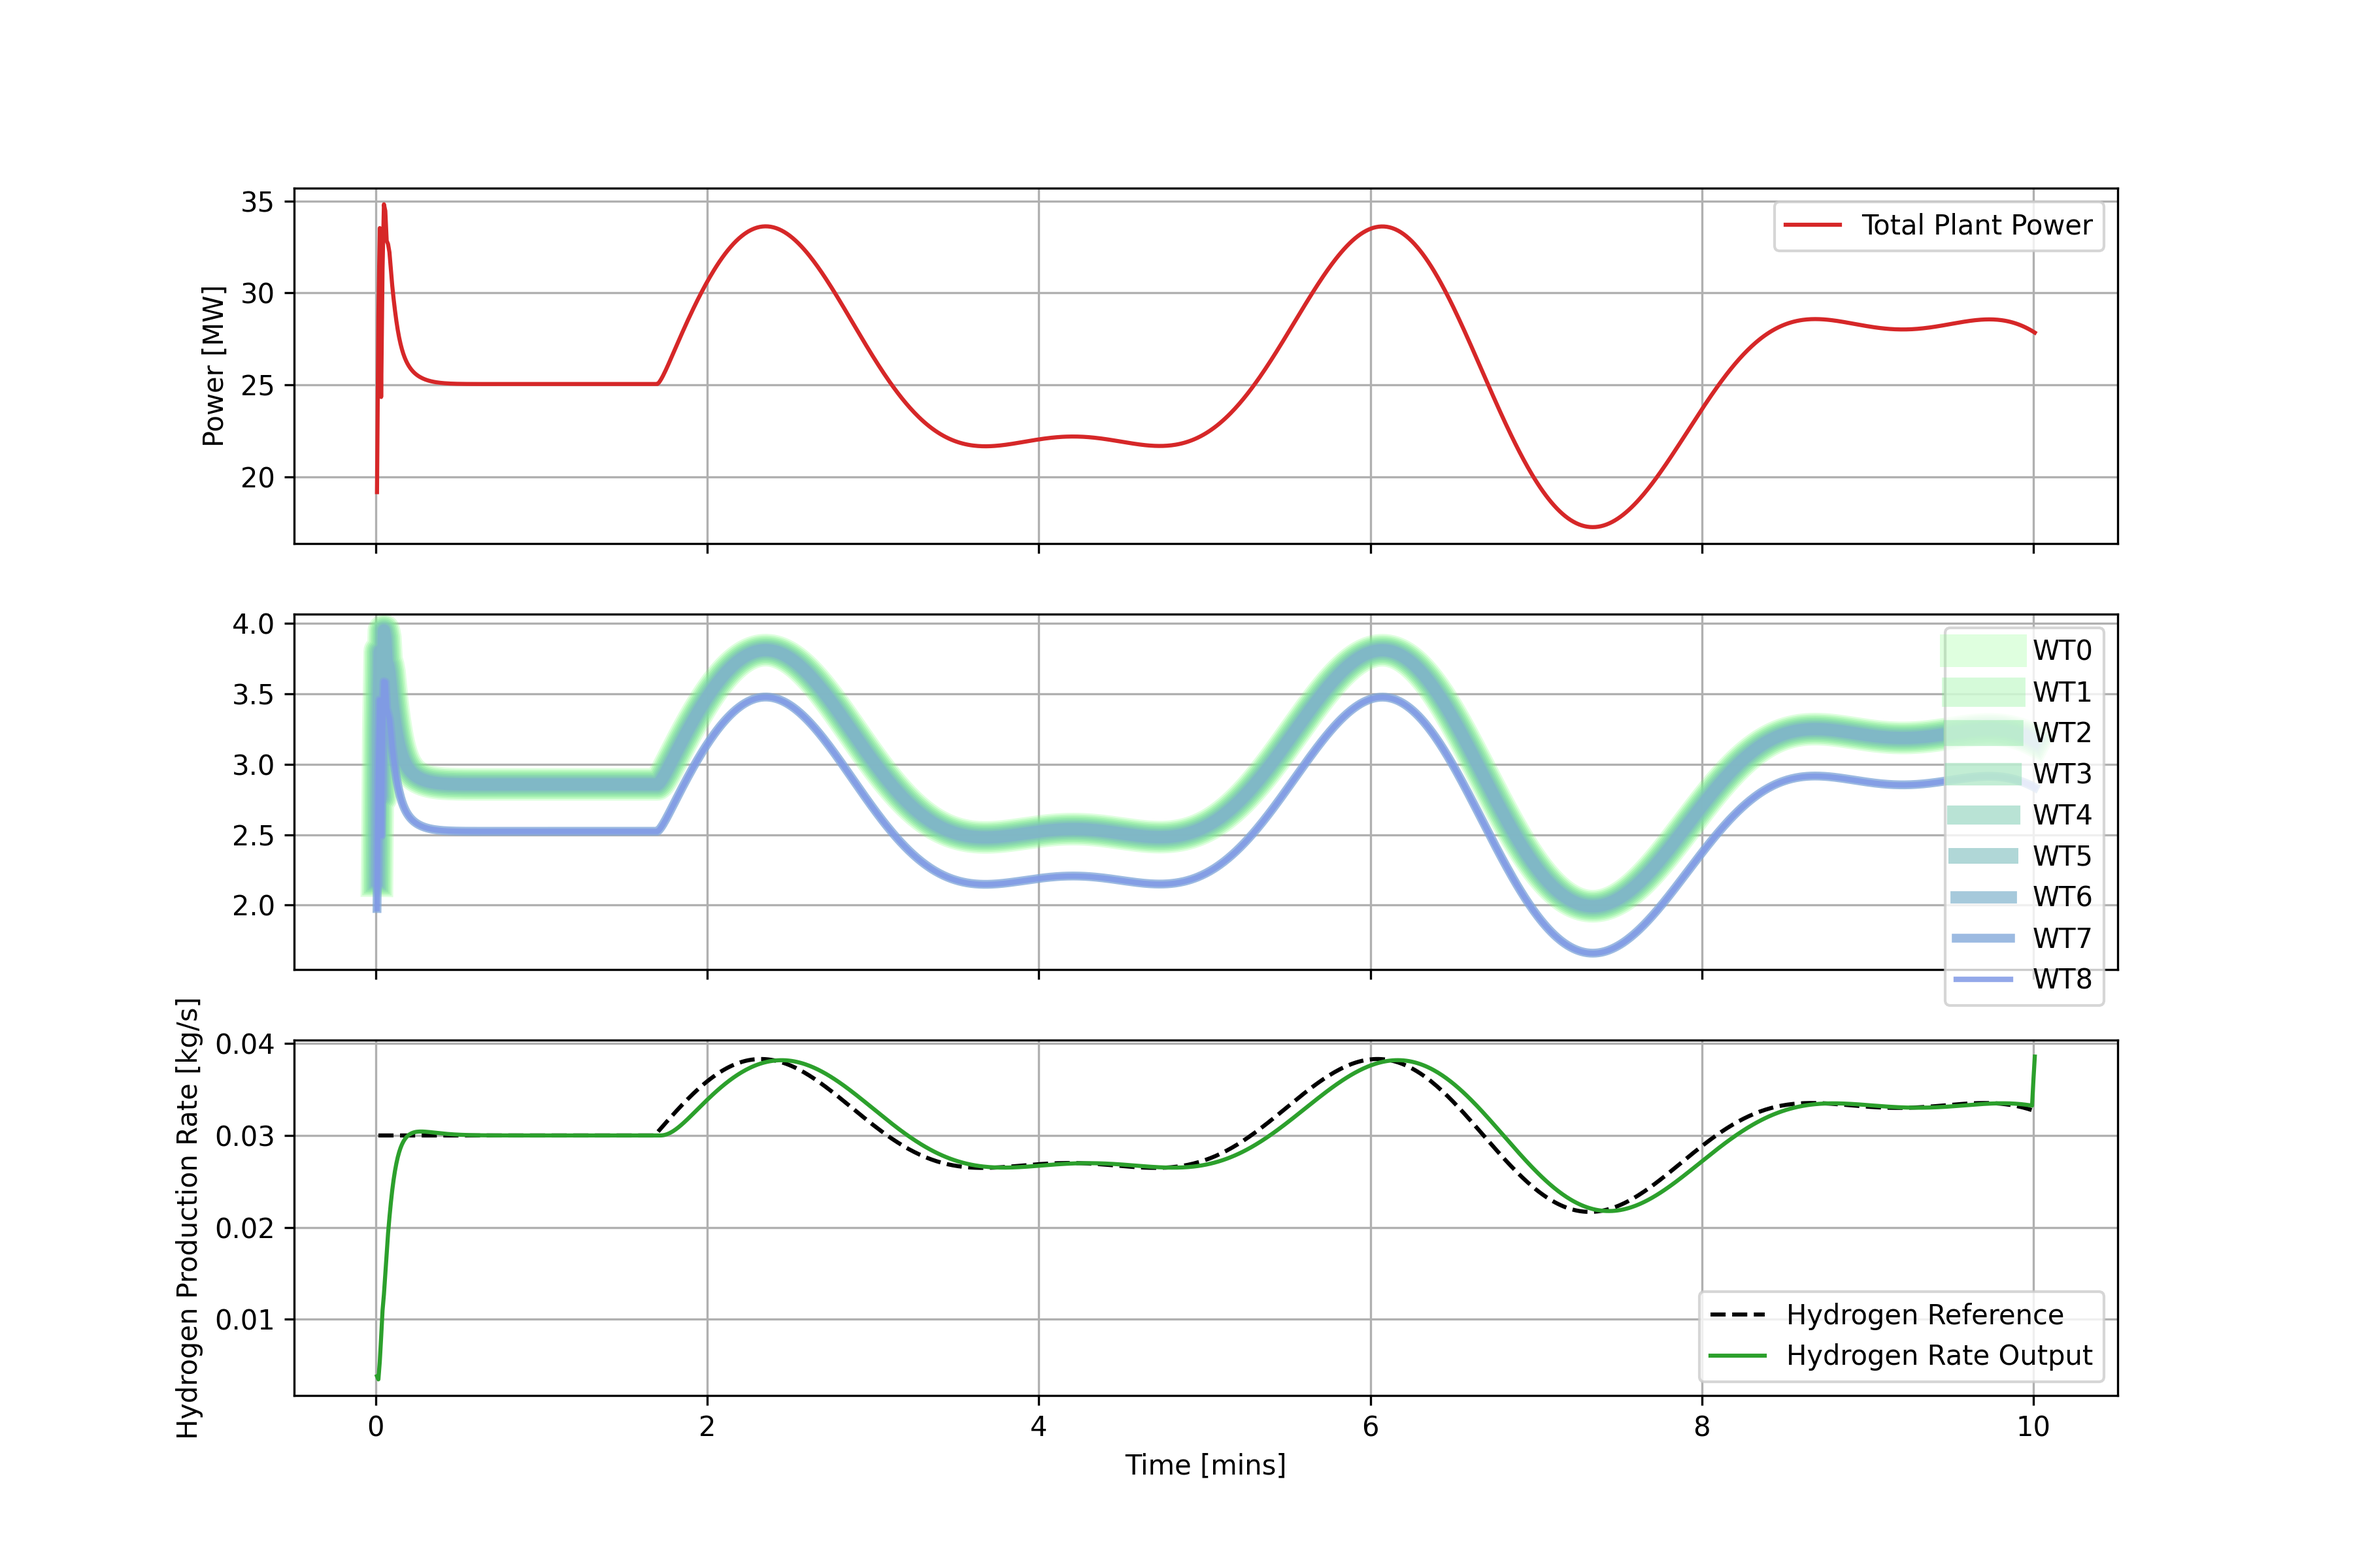
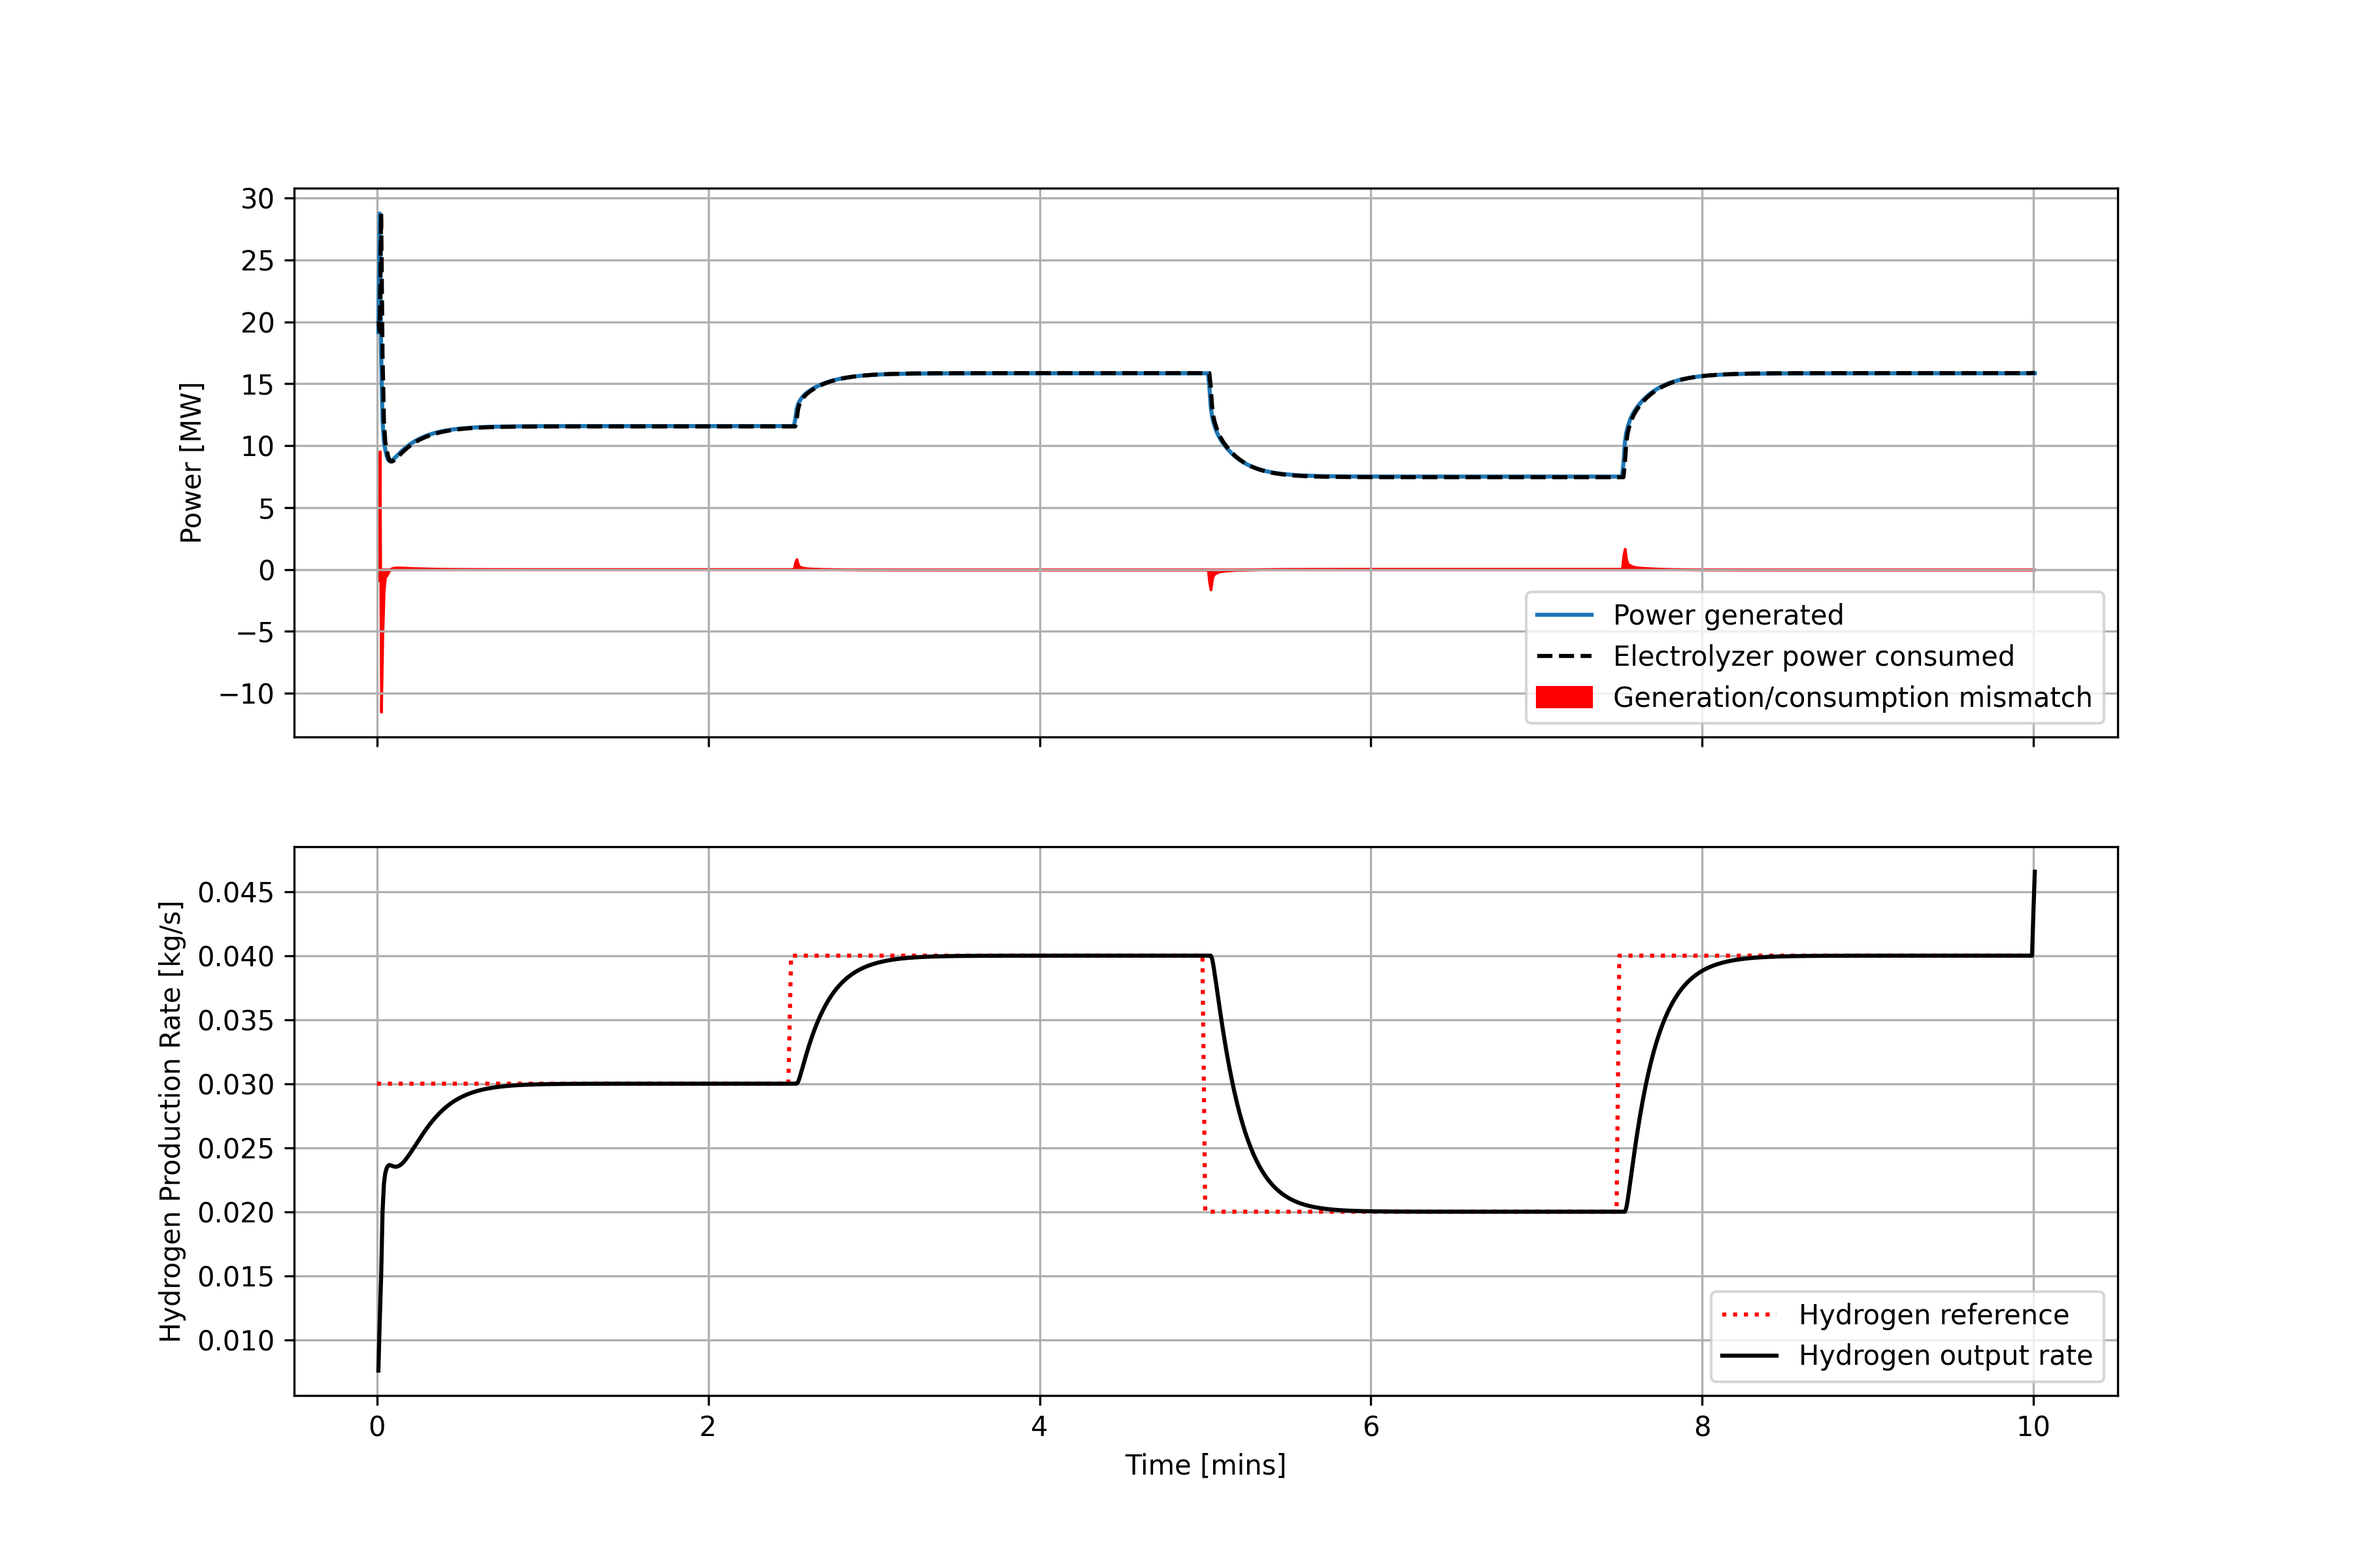
Simplify output plots

diff --git a/examples/wind_hydrogen_tracking/plot_output_data.py b/examples/wind_hydrogen_tracking/plot_output_data.py
@@ -7,66 +7,52 @@ h2_ref_input = pd.read_csv("inputs/hydrogen_ref_signal.csv")
 
 # Extract individual components powers as well as total power
 n_wind_turbines = 9
-wind_power = df[["hercules_comms.amr_wind.wind_farm_0.turbine_powers.{0:03d}".format(t)
-                 for t in range(n_wind_turbines)]].to_numpy().sum(axis=1) / 1e3
 hydrogen_output_rate = df["py_sims.hydrogen_plant_0.outputs.H2_mfr"]
-# power_output = (df["py_sims.inputs.available_power"]) / 1e3
-time = df["hercules_comms.amr_wind.wind_farm_0.sim_time_s_amr_wind"] / 60 # minutes
+time = df["hercules_comms.amr_wind.wind_farm_0.sim_time_s_amr_wind"]
 
 # Set plotting aesthetics
 wind_col = "C0"
-h2_col = "C2"
-plant_col = "C3"
-
-
-wind_power_individuals = df[["hercules_comms.amr_wind.wind_farm_0.turbine_powers.{0:03d}".format(t)
-                             for t in range(n_wind_turbines)]].to_numpy() / 1e3
+h2_col = "k"
+power_err_col = "red"
+h2_ref_col = "red"
 
 # Plot the hydrogen output 
-fig, ax = plt.subplots(3, 1, sharex=True, figsize=(12,8))
-ax[0].plot(time, wind_power, color=plant_col, label="Total Plant Power")
-ax[0].plot(time, df["py_sims.inputs.locally_generated_power"], label="Generated power")
-ax[0].plot(time, df["py_sims.inputs.plant_outputs.electricity"], label="Plant output")
-ax[0].plot(time, df["py_sims.hydrogen_plant_0.outputs.power_used_kw"], \
-        label="Electrolyzer power used")
+fig, ax = plt.subplots(2, 1, sharex=True, figsize=(12,8))
+ax[0].plot(
+    time/60,
+    df["py_sims.inputs.locally_generated_power"]/1e3,
+    color=wind_col,
+    label="Power generated"
+)
+ax[0].plot(
+    time/60,
+    df["py_sims.hydrogen_plant_0.outputs.power_used_kw"]/1e3,
+    color=h2_col,
+    label="Electrolyzer power consumed",
+    linestyle="--"
+)
+ax[0].fill_between(
+    time/60,
+    df["py_sims.inputs.plant_outputs.electricity"]/1e3,
+    color=power_err_col,
+    label="Generation/consumption mismatch"
+)
 ax[0].set_ylabel("Power [MW]")
 ax[0].grid()
-ax[0].legend()
+ax[0].legend(loc="lower right")
 
-turbines = range(0,9)
-width = 12
-alpha = 0.25
-red_col = 0.5
-blue_col = 1.0
-for i in turbines:
-    turb_num = i
-    turb_str = str(turb_num)
-    ax[1].plot(time,  wind_power_individuals[:,i], label="WT"+str(i), \
-               color=(0.5, blue_col, red_col), linewidth=width, alpha = alpha)
-    width = width - 1.25
-    alpha = alpha+0.075
-    red_col = red_col+0.05
-    blue_col = blue_col-0.05
-# for i in range (n_wind_turbines):
-#     ax[1].plot(time, wind_power_individuals[:,i], label="WT"+str(i), alpha=0.7, color=wind_col)
+ax[1].plot(
+    h2_ref_input["time"]/60,
+    h2_ref_input["hydrogen_reference"],
+    color=h2_ref_col,
+    label="Hydrogen reference",
+    linestyle=":"
+)
+ax[1].plot(time/60, hydrogen_output_rate, color=h2_col, label='Hydrogen output rate')
+ax[1].set_ylabel("Hydrogen Production Rate [kg/s]")
 ax[1].grid()
-ax[1].legend()
-
-ax[2].plot(h2_ref_input['time'] / 60, h2_ref_input['hydrogen_reference'],\
-            'k--', label="Hydrogen Reference")
-ax[2].plot(time, hydrogen_output_rate, color=h2_col, label='Hydrogen Rate Output')
-ax[2].set_ylabel("Hydrogen Production Rate [kg/s]")
-ax[2].grid()
-ax[2].legend()
-ax[2].set_xlabel("Time [mins]")
+ax[1].legend(loc="lower right")
+ax[1].set_xlabel("Time [mins]")
 
 # fig.savefig("../../docs/graphics/wind-hydrogen-example-plot.png", dpi=300, format="png")
-
-fig1, ax1 = plt.subplots(1, 1, sharex=True, figsize=(12,8))
-ax1.plot(time, hydrogen_output_rate, color=plant_col, label="H2 mass flow rate")
-# ax1.plot(time, hydrogen_output, color=h2_col, label="H2 produced")
-ax1.set_ylabel("Power [MW]")
-ax1.grid()
-ax1.legend()
-
 plt.show()
